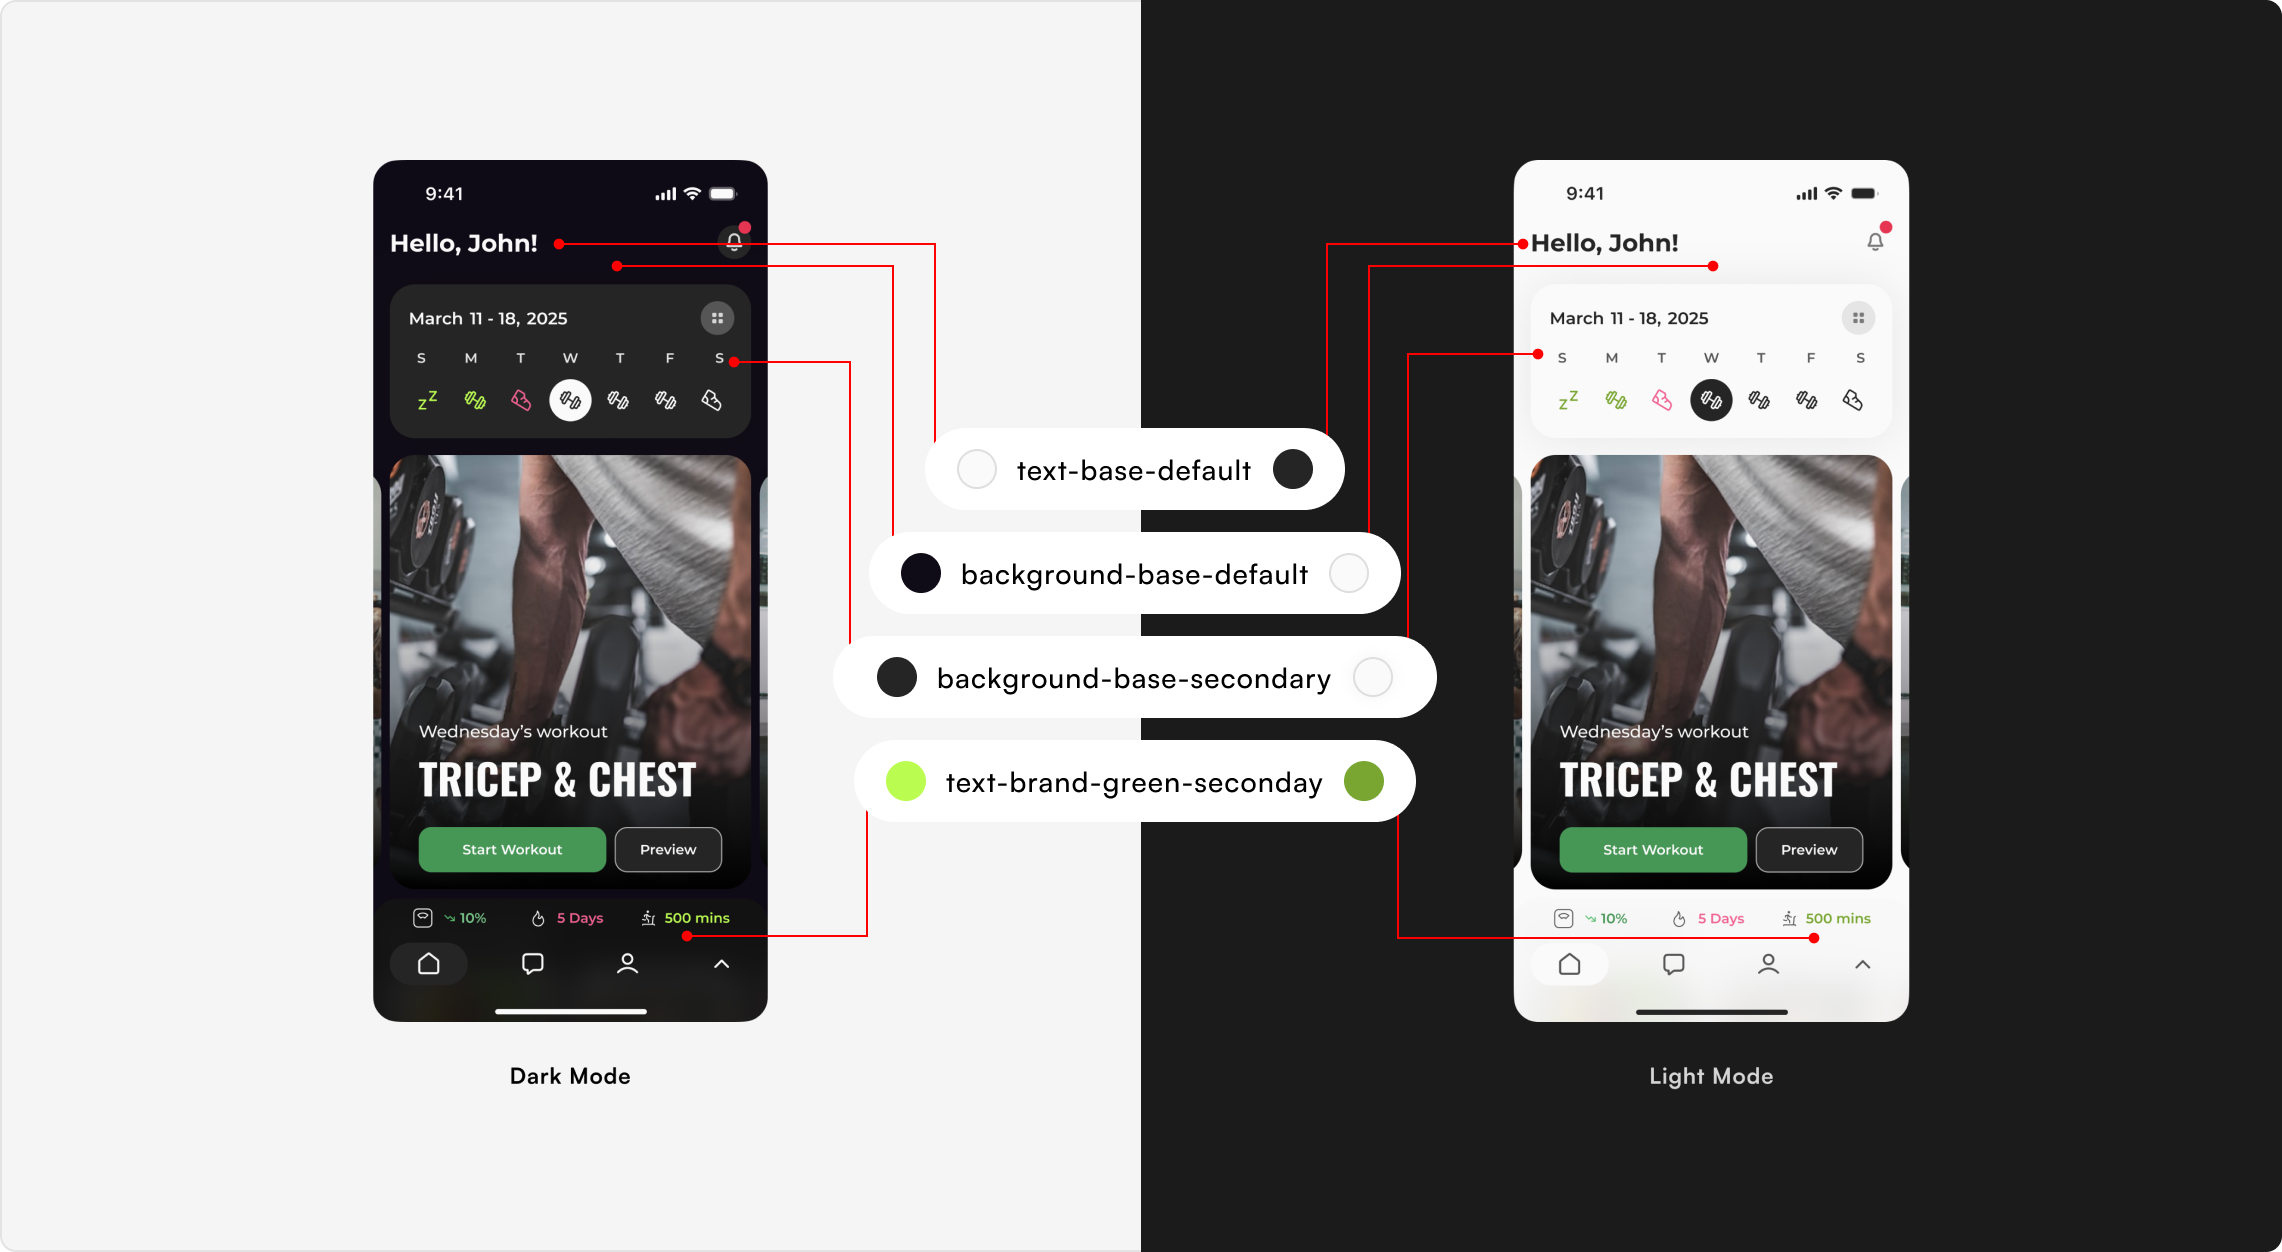
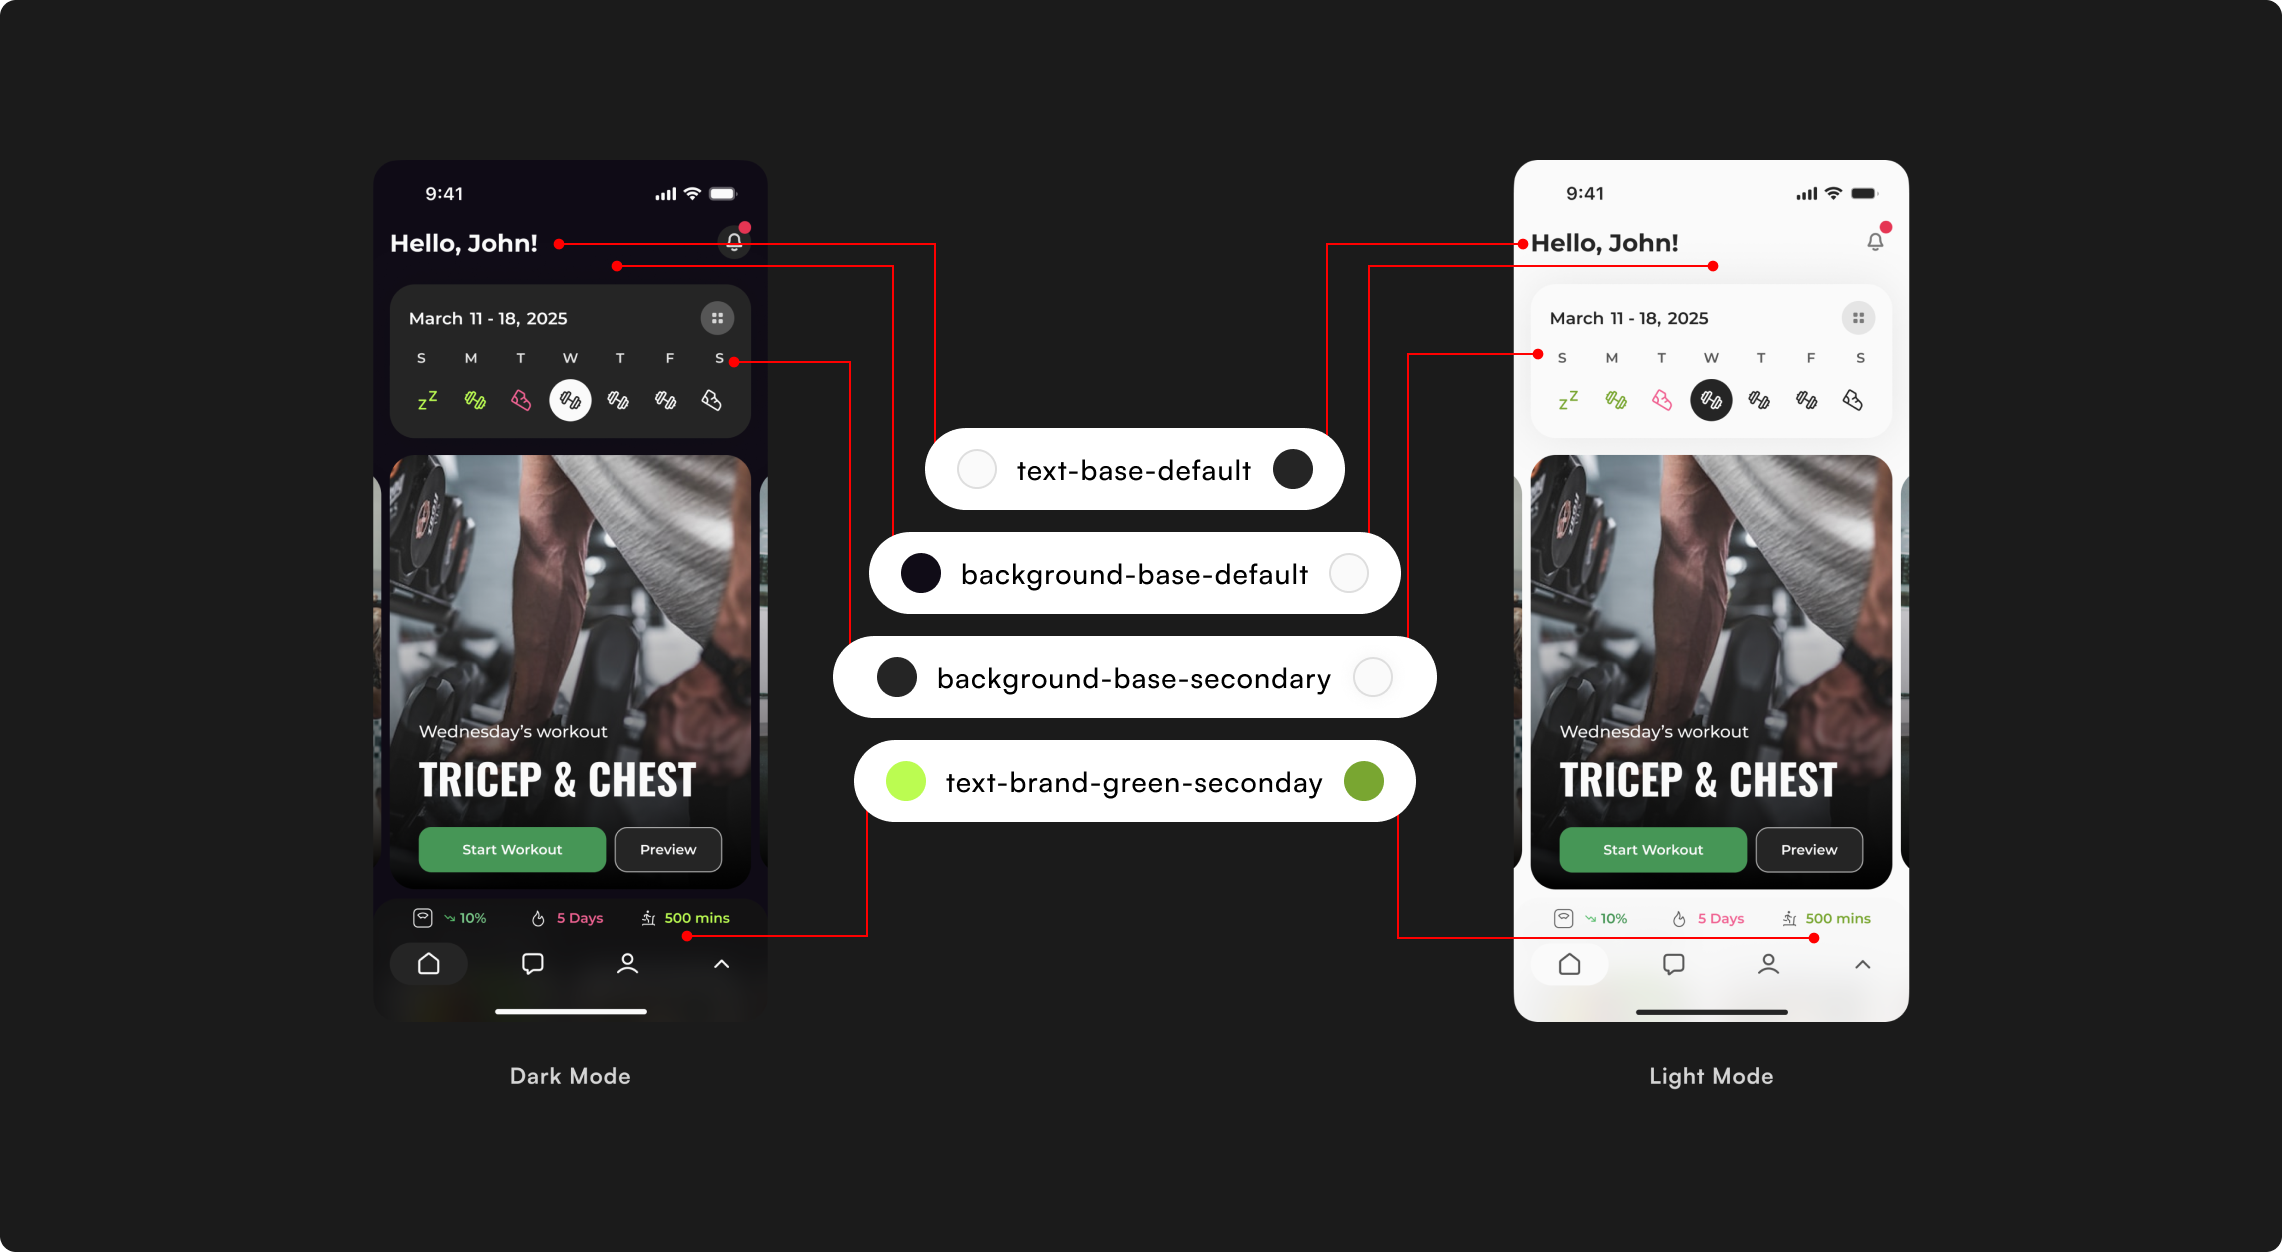
Update images and refine component styles: Replaced several design images and adjusted CSS properties in various components for improved layout and responsiveness, including changes to image containers and global styles.

diff --git a/src/app/components/upliftt/Delivery.jsx b/src/app/components/upliftt/Delivery.jsx
@@ -160,13 +160,13 @@ const FinalDesign = () => {
           </div>
         </div>
       </div>
-      {/* <div className="cs-image-container">
+      {/* <div className="overflow-hidden relative bg-[#1B1B1B]  cs-image-container rounded-lg ">
         {" "}
         <Image
           src={evolution}
           alt="Final design of Upliftt's application"
           fill
-          className="object-cover object-left w-auto h-auto rounded-2xl"
+          className="object-contain object-left w-auto h-auto rounded-2xl"
         />
       </div> */}
     </Wrapper>
@@ -262,22 +262,22 @@ const DesignSystem = () => {
           </div>
         </div>
       </div>
-      <div className="cs-image-container">
+      <div className="overflow-hidden relative bg-[#1B1B1B]  cs-image-container rounded-lg ">
         {" "}
         <Image
           src={designSystem1}
           alt="Final design of Upliftt's application"
           fill
-          className="object-contain object-left w-auto h-auto rounded-2xl md:object-cover"
+          className="object-contain object-center overflow-visible w-auto h-auto"
         />
       </div>
-      <div className="cs-image-container">
+      <div className="overflow-hidden relative bg-[#1B1B1B]  cs-image-container rounded-lg ">
         {" "}
         <Image
           src={designSystem2}
           alt="Final design of Upliftt's application"
           fill
-          className="object-contain object-left w-auto h-auto rounded-2xl md:object-cover"
+          className="object-contain object-center overflow-visible w-auto h-auto"
         />
       </div>
     </Wrapper>

diff --git a/src/app/components/upliftt/Define.jsx b/src/app/components/upliftt/Define.jsx
@@ -124,13 +124,13 @@ const DesignFramework = () => {
           </div>
         </div>
       </div>
-      <div className="cs-image-container">
+      <div className="overflow-hidden relative bg-[#1B1B1B] p-8  cs-image-container rounded-lg ">
         {" "}
         <Image
           src={lowfi}
           alt="Final design of Upliftt's application"
           fill
-          className="object-contain object-left w-auto h-auto rounded-2xl md:object-cover"
+          className="object-contain object-center overflow-visible w-auto h-auto"
         />
       </div>
     </Wrapper>
@@ -198,13 +198,13 @@ const DesignEvolution = () => {
           </div>
         </div>
       </div>
-      <div className="cs-image-container">
+      <div className="overflow-hidden relative bg-[#1B1B1B] p-8  cs-image-container rounded-lg ">
         {" "}
         <Image
           src={evolution}
           alt="Final design of Upliftt's application"
           fill
-          className="object-contain object-left w-auto h-auto rounded-2xl md:object-cover"
+          className="object-contain object-center overflow-visible w-auto h-auto"
         />
       </div>
     </Wrapper>

diff --git a/src/app/components/upliftt/Learning.jsx b/src/app/components/upliftt/Learning.jsx
@@ -37,22 +37,22 @@ const Handoff = () => {
           </div>
         </div>
       </div>
-      <div className="cs-image-container">
+      <div className="overflow-hidden relative bg-[#1B1B1B]  cs-image-container rounded-lg ">
         {" "}
         <Image
           src={handoff1}
           alt="Final design of Upliftt's application"
           fill
-          className="object-contain object-left w-auto h-auto rounded-2xl md:object-cover"
+          className="object-contain object-center overflow-visible w-auto h-auto"
         />
       </div>
-      <div className="cs-image-container">
+      <div className="overflow-hidden relative bg-[#1B1B1B]  cs-image-container rounded-lg ">
         {" "}
         <Image
           src={handoff2}
           alt="Final design of Upliftt's application"
           fill
-          className="object-contain object-left w-auto h-auto rounded-2xl md:object-cover"
+          className="object-contain object-center overflow-visible w-auto h-auto"
         />
       </div>
     </Wrapper>

diff --git a/src/app/upliftt/page.jsx b/src/app/upliftt/page.jsx
@@ -70,12 +70,12 @@ const ImageThumbnail = () => {
       className="flex gap-8 justify-start items-center pt-24 mb-0 w-full h-auto md:pt-28 md:mb-16"
       id="overview"
     >
-      <div className="overflow-hidden relative bg-[#1B1B1B]  cs-image-container rounded-lg ">
+      <div className="overflow-hidden relative bg-[#1B1B1B]  cs-image-container h-[65dvh] rounded-lg ">
         <Image
           src={thumbnail}
           alt="Upliftt image thumbnail with 2 iphone mockup at the center of the image."
           fill // <-- Use the fill prop
-          className="object-cover object-center overflow-visible w-auto h-auto"
+          className="object-contain object-center overflow-visible w-auto h-auto"
           priority
         />
       </div>

diff --git a/src/app/components/upliftt/Discovery.jsx b/src/app/components/upliftt/Discovery.jsx
@@ -71,14 +71,14 @@ const BusinessChallenge = () => {
           their trainers create.
         </h1>
       </div>
-      <div className="cs-image-container">
+      <div className="overflow-hidden relative bg-[#1B1B1B]  cs-image-container rounded-lg  p-8">
         {" "}
         {/* Added relative */}
         <Image
           src={datatodesign}
           alt="Final design of Upliftt's application"
           fill
-          className="object-contain object-left w-auto h-auto rounded-2xl md:object-cover"
+          className="object-contain object-left overflow-visible w-auto h-auto"
         />
       </div>
     </Wrapper>

diff --git a/src/app/globals.css b/src/app/globals.css
@@ -196,7 +196,7 @@ body.has-snap-container {
   .cs-image-container {
     @apply overflow-hidden relative rounded-lg;
     @apply w-[90vw] h-[30dvh];
-    @apply sm:w-[80vw] md:w-[70vw] 2xl:w-[60vw] md:h-[65dvh];
+    @apply sm:w-[80vw] md:w-[70vw] 2xl:w-[60vw] md:h-[50dvh];
   }
 
   /* Case Study Text Content Container */

diff --git a/src/app/components/upliftt/Overview.jsx b/src/app/components/upliftt/Overview.jsx
@@ -41,7 +41,7 @@ const Summary = () => {
           </p>
         </div>
       </div>
-      <div className="cs-image-container">
+      <div className="overflow-hidden relative bg-[#1B1B1B] p-8  cs-image-container rounded-lg ">
         {" "}
         {/* Added relative */}
         <Image
